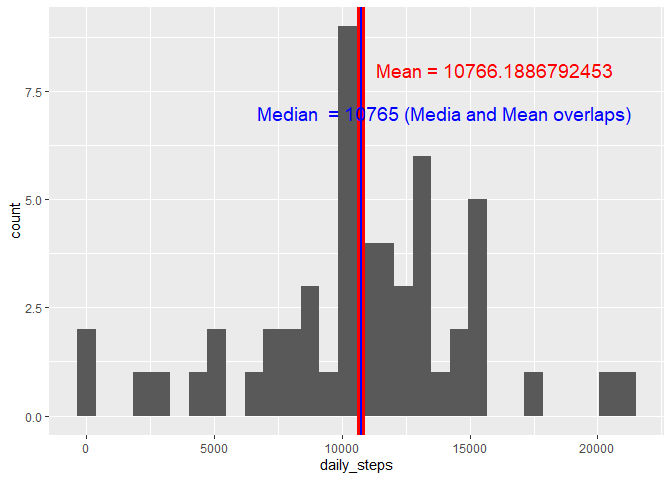
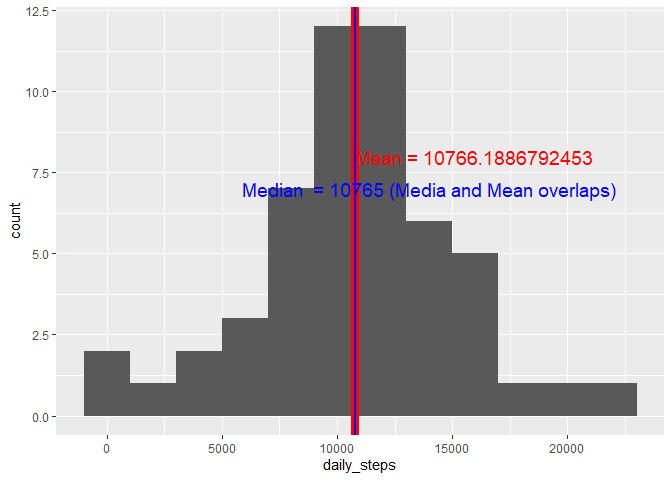
q4

diff --git a/PA1_template.html b/PA1_template.html
@@ -211,7 +211,7 @@ summary(totalStepbyDay$daily_steps)</code></pre>
 <h3>Draw the histgram, Median and Mean lines (Median and Mean are overlapping)</h3>
 <pre class="r"><code>library(ggplot2)
 # Basic histogram
-myplot &lt;- ggplot(totalStepbyDay, aes(daily_steps)) + geom_histogram()
+myplot &lt;- ggplot(totalStepbyDay, aes(daily_steps)) + geom_histogram(binwidth=2000)
 
 myplot + 
   
@@ -229,7 +229,6 @@ myplot +
   geom_vline(xintercept = median(totalStepbyDay$daily_steps),        # Add line for mean
              col = &quot;blue&quot;,
              lwd = 1) +
-  
 
     annotate(&quot;text&quot;,                        # Add text for mean
            x = 14000,
@@ -237,8 +236,7 @@ myplot +
            label = paste(&quot;Median  =&quot;, median(totalStepbyDay$daily_steps),&quot;(Media and Mean overlaps)&quot;),
            col = &quot;blue&quot;,
            size = 5)</code></pre>
-<pre><code>## `stat_bin()` using `bins = 30`. Pick better value with `binwidth`.</code></pre>
[2 lines of base64/hex data omitted]
 </div>
 </div>
 <div id="what-is-the-average-daily-activity-pattern" class="section level2">
@@ -263,6 +261,81 @@ colnames(dailyStepInterval)[2] &lt;- &quot;daily_steps&quot;</code></pre>
 </div>
 <div id="imputing-missing-values" class="section level2">
 <h2>Imputing missing values</h2>
+<div id="checking-na-in-orignal-data-set" class="section level3">
+<h3>Checking NA in orignal data set</h3>
+<pre class="r"><code>#read in original dt
+dirtydt &lt;- read.table(&quot;activity.csv&quot;, na.strings = &quot;NA&quot;, sep = &quot;,&quot; , header = T)
+
+summary(dirtydt)</code></pre>
+<pre><code>##      steps            date              interval     
+##  Min.   :  0.00   Length:17568       Min.   :   0.0  
+##  1st Qu.:  0.00   Class :character   1st Qu.: 588.8  
+##  Median :  0.00   Mode  :character   Median :1177.5  
+##  Mean   : 37.38                      Mean   :1177.5  
+##  3rd Qu.: 12.00                      3rd Qu.:1766.2  
+##  Max.   :806.00                      Max.   :2355.0  
+##  NA&#39;s   :2304</code></pre>
+</div>
+<div id="replace-na-with-interval-median-2304-na-in-setpes-accroding-to-summary" class="section level3">
+<h3>Replace NA with interval-median (2304 NA in “setpes” accroding to summary)</h3>
+<pre class="r"><code># Create a table with interval and medial of steps 
+interMedian &lt;- aggregate(dt$steps, by=list(interval = dt$interval), FUN = median)
+
+colnames(interMedian)[2] &lt;- &quot;steps&quot;
+
+# keep the dirty data, just for comparision
+tempCol &lt;- dirtydt$steps
+dirtydt$OrgStep &lt;- tempCol
+
+# left join dirty table with interMedian on interval
+# replace steps in dirtydt with NA with steps in interMedian table
+# remove -steps.y, -steps.x 
+temptbl &lt;- left_join(dirtydt,interMedian, by = &quot;interval&quot;) %&gt;% 
+        mutate(steps = ifelse(is.na(steps.x), steps.y, steps.x)) %&gt;%
+        select(-steps.y, -steps.x) 
+
+
+totalStepbyDay1 &lt;- aggregate(temptbl$steps, by=list(date = temptbl$date), FUN = sum)
+
+colnames(totalStepbyDay1)[2] &lt;- &quot;daily_steps&quot;
+
+
+str(dirtydt)</code></pre>
+<pre><code>## &#39;data.frame&#39;:    17568 obs. of  4 variables:
+##  $ steps   : int  NA NA NA NA NA NA NA NA NA NA ...
+##  $ date    : chr  &quot;2012-10-01&quot; &quot;2012-10-01&quot; &quot;2012-10-01&quot; &quot;2012-10-01&quot; ...
+##  $ interval: int  0 5 10 15 20 25 30 35 40 45 ...
+##  $ OrgStep : int  NA NA NA NA NA NA NA NA NA NA ...</code></pre>
+</div>
+<div id="plot-for-imputed-na-data" class="section level3">
+<h3>plot for imputed NA data</h3>
+<pre class="r"><code>myplot1 &lt;- ggplot(totalStepbyDay1, aes(daily_steps)) + geom_histogram(binwidth=2000)
+
+myplot1 + 
+  
+  geom_vline(xintercept = mean(totalStepbyDay1$daily_steps),        # Add line for mean
+             col = &quot;red&quot;,
+             lwd = 1) + 
+  
+  annotate(&quot;text&quot;,                        # Add text for mean
+           x = 16000,
+           y = 8,
+           label = paste(&quot;Mean =&quot;, mean(totalStepbyDay1$daily_steps)),
+           col = &quot;red&quot;,
+           size = 5) + 
+  
+  geom_vline(xintercept = median(totalStepbyDay1$daily_steps),        # Add line for mean
+             col = &quot;blue&quot;,
+             lwd = 1) +
+
+    annotate(&quot;text&quot;,                        # Add text for mean
+           x = 14000,
+           y = 7,
+           label = paste(&quot;Median  =&quot;, median(totalStepbyDay1$daily_steps),&quot;(Media and Mean overlaps)&quot;),
+           col = &quot;blue&quot;,
+           size = 5)</code></pre>
[1 lines of base64/hex data omitted]
+</div>
 </div>
 <div id="are-there-differences-in-activity-patterns-between-weekdays-and-weekends" class="section level2">
 <h2>Are there differences in activity patterns between weekdays and weekends?</h2>

diff --git a/PA1_template.md b/PA1_template.md
@@ -74,7 +74,7 @@ summary(totalStepbyDay$daily_steps)
 ```r
 library(ggplot2)
 # Basic histogram
-myplot <- ggplot(totalStepbyDay, aes(daily_steps)) + geom_histogram()
+myplot <- ggplot(totalStepbyDay, aes(daily_steps)) + geom_histogram(binwidth=2000)
 
 myplot + 
   
@@ -92,7 +92,6 @@ myplot +
   geom_vline(xintercept = median(totalStepbyDay$daily_steps),        # Add line for mean
              col = "blue",
              lwd = 1) +
-  
 
     annotate("text",                        # Add text for mean
            x = 14000,
@@ -100,10 +99,6 @@ myplot +
            label = paste("Median  =", median(totalStepbyDay$daily_steps),"(Media and Mean overlaps)"),
            col = "blue",
            size = 5)
-```
-
-```
-## `stat_bin()` using `bins = 30`. Pick better value with `binwidth`.
 ```
 
 ![](PA1_template_files/figure-html/unnamed-chunk-2-1.png)<!-- -->
@@ -138,6 +133,98 @@ ggplot(data=dailyStepInterval,
 
 
 ## Imputing missing values
+
+### Checking NA in orignal data set
+
+
+```r
+#read in original dt
+dirtydt <- read.table("activity.csv", na.strings = "NA", sep = "," , header = T)
+
+summary(dirtydt)
+```
+
+```
+##      steps            date              interval     
+##  Min.   :  0.00   Length:17568       Min.   :   0.0  
+##  1st Qu.:  0.00   Class :character   1st Qu.: 588.8  
+##  Median :  0.00   Mode  :character   Median :1177.5  
+##  Mean   : 37.38                      Mean   :1177.5  
+##  3rd Qu.: 12.00                      3rd Qu.:1766.2  
+##  Max.   :806.00                      Max.   :2355.0  
+##  NA's   :2304
+```
+
+
+### Replace NA with interval-median (2304 NA in "setpes" accroding to summary)
+
+
+```r
+# Create a table with interval and medial of steps 
+interMedian <- aggregate(dt$steps, by=list(interval = dt$interval), FUN = median)
+
+colnames(interMedian)[2] <- "steps"
+
+# keep the dirty data, just for comparision
+tempCol <- dirtydt$steps
+dirtydt$OrgStep <- tempCol
+
+# left join dirty table with interMedian on interval
+# replace steps in dirtydt with NA with steps in interMedian table
+# remove -steps.y, -steps.x 
+temptbl <- left_join(dirtydt,interMedian, by = "interval") %>% 
+        mutate(steps = ifelse(is.na(steps.x), steps.y, steps.x)) %>%
+        select(-steps.y, -steps.x) 
+
+
+totalStepbyDay1 <- aggregate(temptbl$steps, by=list(date = temptbl$date), FUN = sum)
+
+colnames(totalStepbyDay1)[2] <- "daily_steps"
+
+
+str(dirtydt)
+```
+
+```
+## 'data.frame':	17568 obs. of  4 variables:
+##  $ steps   : int  NA NA NA NA NA NA NA NA NA NA ...
+##  $ date    : chr  "2012-10-01" "2012-10-01" "2012-10-01" "2012-10-01" ...
+##  $ interval: int  0 5 10 15 20 25 30 35 40 45 ...
+##  $ OrgStep : int  NA NA NA NA NA NA NA NA NA NA ...
+```
+
+
+### plot for imputed NA data
+
+```r
+myplot1 <- ggplot(totalStepbyDay1, aes(daily_steps)) + geom_histogram(binwidth=2000)
+
+myplot1 + 
+  
+  geom_vline(xintercept = mean(totalStepbyDay1$daily_steps),        # Add line for mean
+             col = "red",
+             lwd = 1) + 
+  
+  annotate("text",                        # Add text for mean
+           x = 16000,
+           y = 8,
+           label = paste("Mean =", mean(totalStepbyDay1$daily_steps)),
+           col = "red",
+           size = 5) + 
+  
+  geom_vline(xintercept = median(totalStepbyDay1$daily_steps),        # Add line for mean
+             col = "blue",
+             lwd = 1) +
+
+    annotate("text",                        # Add text for mean
+           x = 14000,
+           y = 7,
+           label = paste("Median  =", median(totalStepbyDay1$daily_steps),"(Media and Mean overlaps)"),
+           col = "blue",
+           size = 5)
+```
+
+![](PA1_template_files/figure-html/unnamed-chunk-7-1.png)<!-- -->
 
 
 
